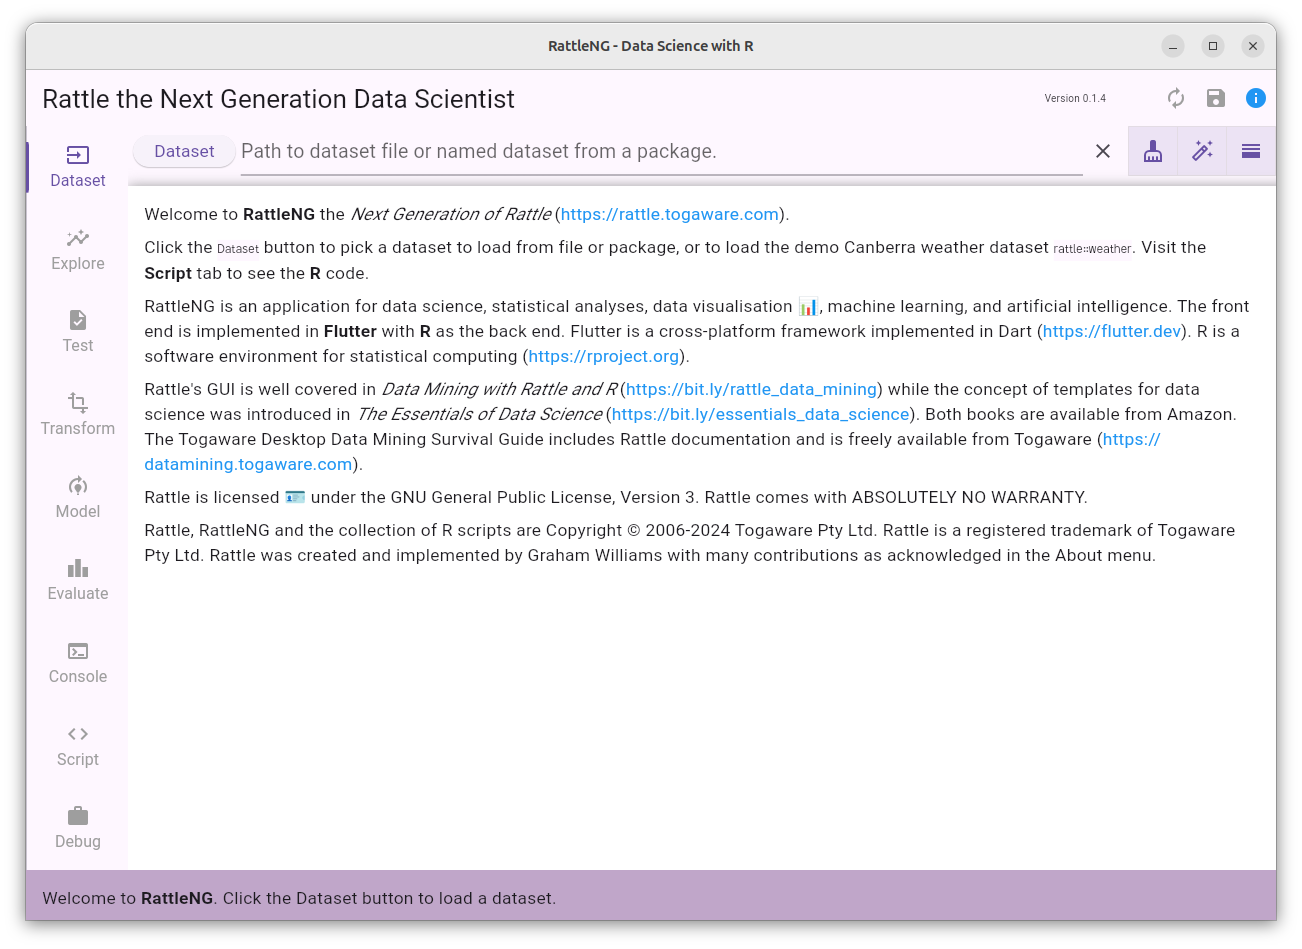
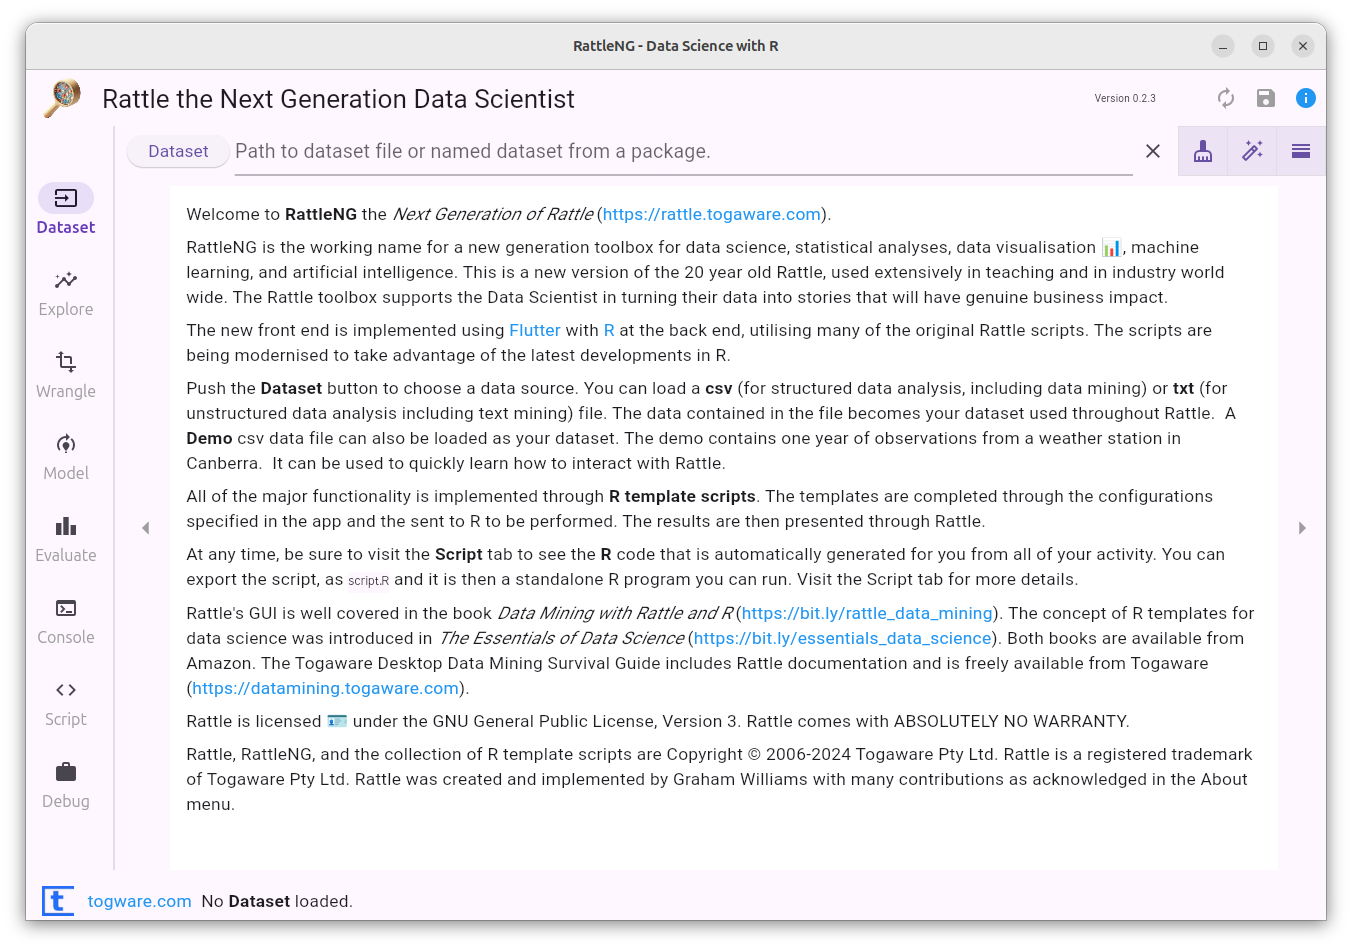
Update welcome page.

diff --git a/assets/markdown/welcome.md b/assets/markdown/welcome.md
@@ -1,25 +1,39 @@
 Welcome to **RattleNG** the *Next Generation of Rattle*
 (https://rattle.togaware.com).
 
-The Rattle toolbox aims to
+RattleNG is the working name for a new generation toolbox for data
+science, statistical analyses, data visualisation 📊, machine
+learning, and artificial intelligence. This is a new version of the 20
+year old Rattle, used extensively in teaching and in industry world
+wide. The Rattle toolbox supports the Data Scientist in turning their
+data into stories that will have genuine business impact.
 
-Click the `Dataset` button to pick a dataset to load from file or
-package, or to load the demo Canberra weather dataset
-`rattle::weather`. 
+The new front end is implemented using [Flutter](https://flutter.dev)
+with [R](https://rproject.org) at the back end, utilising many of the
+original Rattle scripts. The scripts are being modernised to take
+advantage of the latest developments in R.
 
-Be sure to visit the **Script** tab to see the **R** code that is
-generated for all of your activity. You can export the script and it
-is then a standalone R program you can run.
+Push the **Dataset** button to choose a data source. You can load a
+**csv** (for structured data analysis, including data mining) or
+**txt** (for unstructured data analysis including text mining)
+file. The data contained in the file becomes your dataset used
+throughout Rattle.  A **Demo** csv data file can also be loaded as
+your dataset. The demo contains one year of observations from a
+weather station in Canberra.  It can be used to quickly learn how to
+interact with Rattle.
 
-RattleNG is an application for data science, statistical analyses,
-data visualisation 📊, machine learning, and artificial
-intelligence. The front end is implemented in **Flutter** with **R**
-as the back end. Flutter is a cross-platform framework implemented in
-Dart (https://flutter.dev). R is a software environment for
-statistical computing (https://rproject.org).
+All of the major functionality is implemented through **R template
+scripts**. The templates are completed through the configurations
+specified in the app and the sent to R to be performed. The results
+are then presented through Rattle.
 
-Rattle's GUI is well covered in *Data Mining with Rattle and R*
-(https://bit.ly/rattle_data_mining) while the concept of templates for
+At any time, be sure to visit the **Script** tab to see the **R** code
+that is automatically generated for you from all of your activity. You
+can export the script, as `script.R` and it is then a standalone R
+program you can run. Visit the Script tab for more details.
+
+Rattle's GUI is well covered in the book *Data Mining with Rattle and
+R* (https://bit.ly/rattle_data_mining). The concept of R templates for
 data science was introduced in *The Essentials of Data Science*
 (https://bit.ly/essentials_data_science). Both books are available
 from Amazon. The Togaware Desktop Data Mining Survival Guide includes
@@ -29,7 +43,8 @@ Rattle documentation and is freely available from Togaware
 Rattle is licensed 🪪 under the GNU General Public License,
 Version 3. Rattle comes with ABSOLUTELY NO WARRANTY.
 
-Rattle, RattleNG and the collection of R scripts are Copyright ©
-2006-2024 Togaware Pty Ltd. Rattle is a registered trademark of
-Togaware Pty Ltd. Rattle was created and implemented by Graham
-Williams with many contributions as acknowledged in the About menu.
+Rattle, RattleNG, and the collection of R template scripts are
+Copyright © 2006-2024 Togaware Pty Ltd. Rattle is a registered
+trademark of Togaware Pty Ltd. Rattle was created and implemented by
+Graham Williams with many contributions as acknowledged in the About
+menu.
